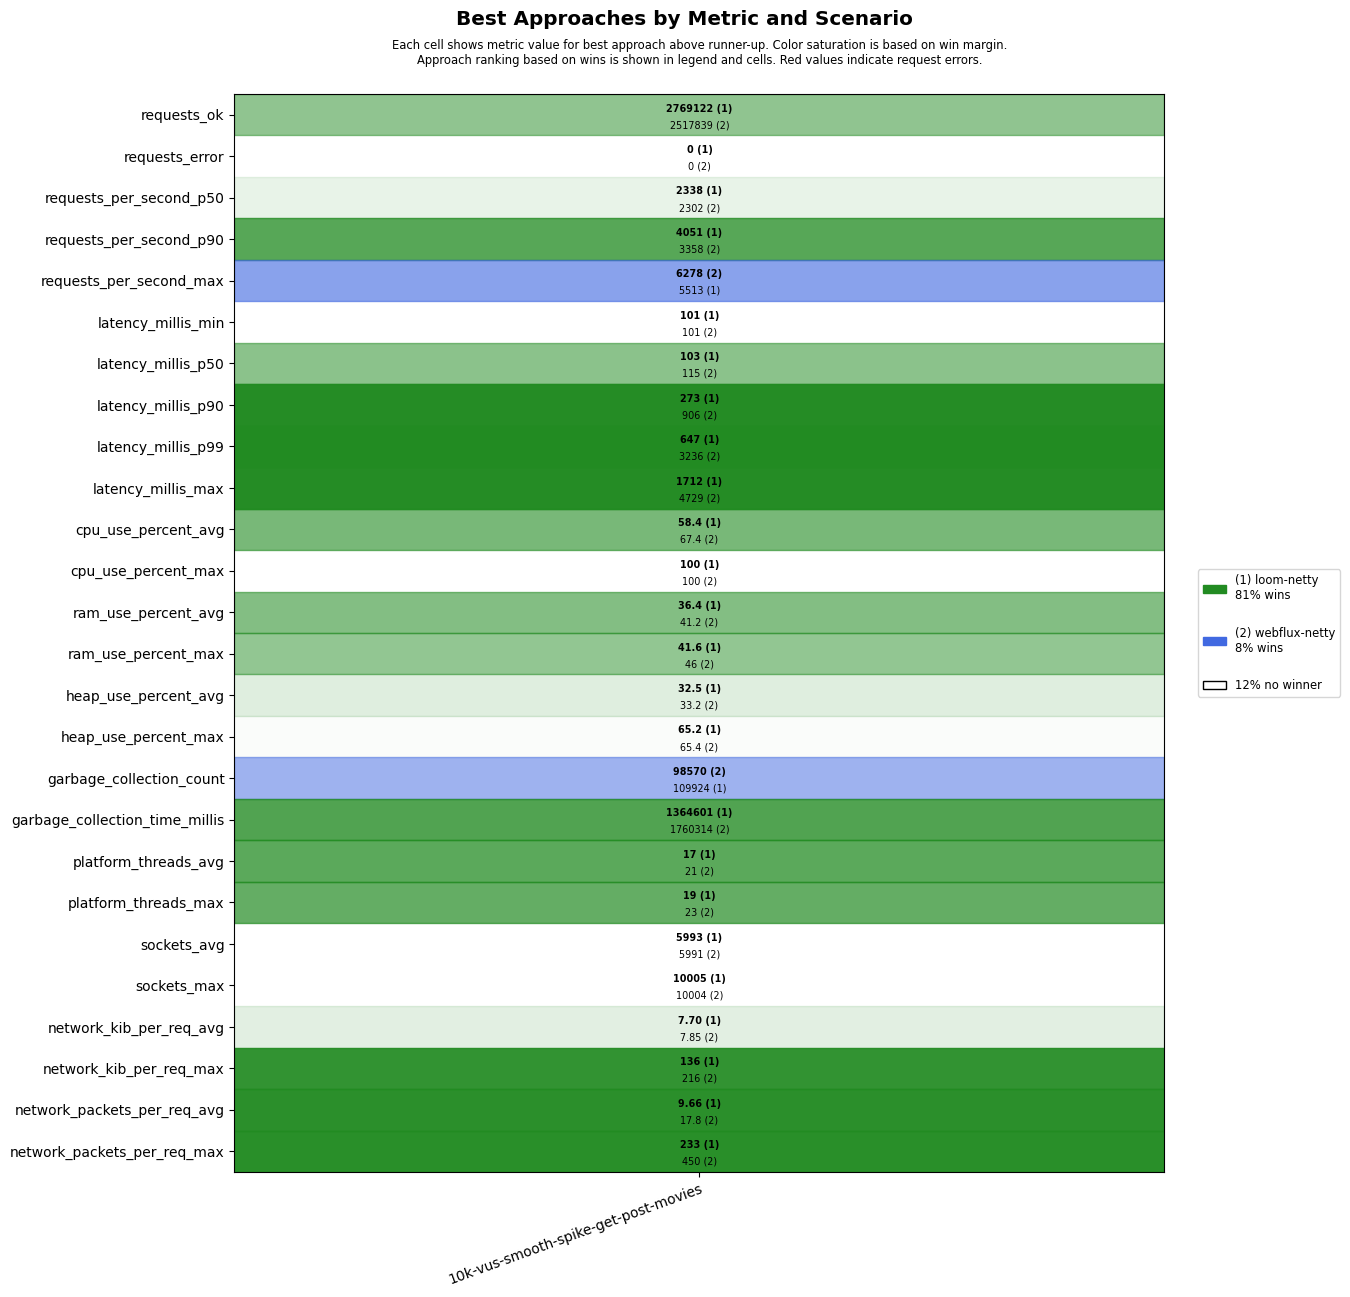
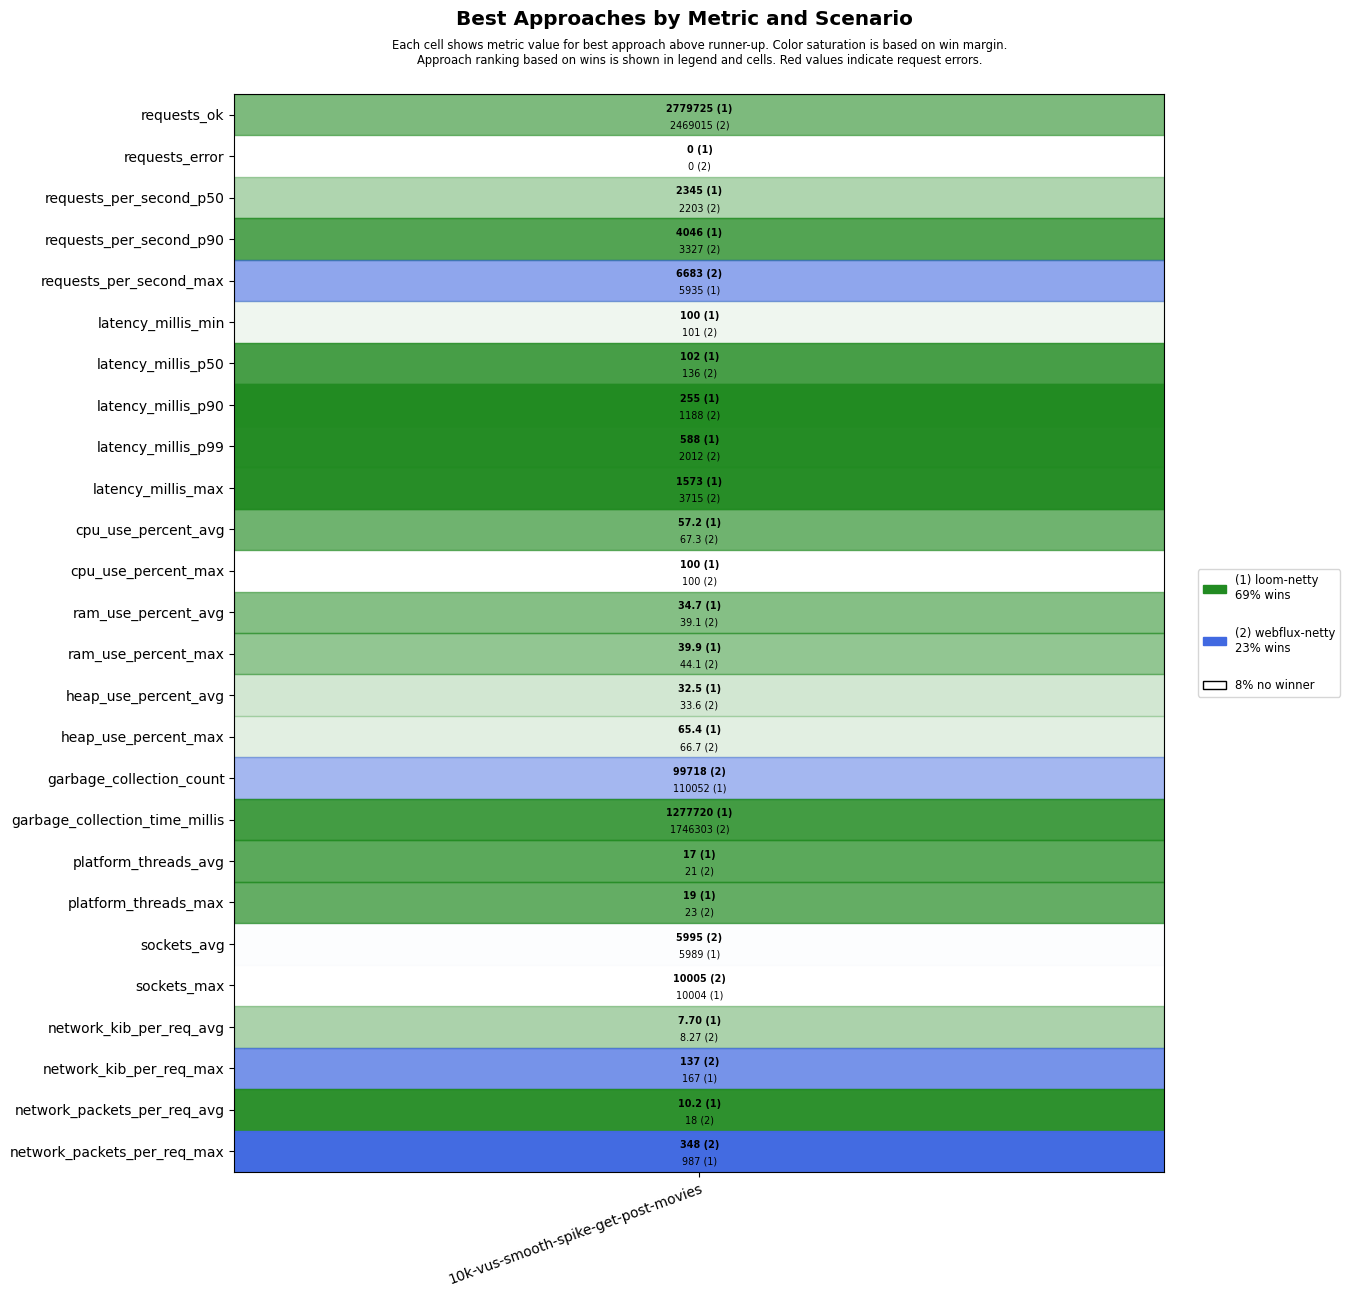
Apply automatic changes

diff --git a/results/ci/scenarios-soaktest/Ubuntu-22.04/java-22/results.md b/results/ci/scenarios-soaktest/Ubuntu-22.04/java-22/results.md
@@ -1,0 +1,54 @@
+# scenarios-soaktest
+
+## Test Time
+
+| **Name**                | **Value** |
+|-------------------------|-----------|
+| **Start (UTC)** | 2024-09-02 05:21:11 |
+| **End (UTC)** | 2024-09-02 06:03:02 |
+| **Duration (hh:mm:ss)** | 00:41:51 |
+
+## System Specs
+
+| **Name**                | **Value** |
+|-------------------------|-----------|
+| **Java** | OpenJDK 64-Bit Server VM Corretto-22.0.2.9.1 (build 22.0.2+9-FR, mixed mode, sharing) |
+| **Python** | 3.10.12 |
+| **OS** | Ubuntu 22.04.4 LTS |
+| **Kernel** | 6.5.0-1025-azure |
+| **CPU** | AMD EPYC 7763 64-Core Processor |
+| **CPU Cores** | 4 |
+| **RAM** | 15Gi total, 13Gi available |
+| **Disk** | 159G total, 98G available |
+
+## Scenarios
+
+**Scenario file:** src/main/resources/scenarios/scenarios-soaktest.csv
+
+| Scenario | k6 Config | Server Profiles | Delay Call Depth | Delay (ms) | Connections | Requests per Second | Warmup Duration (s) | Test Duration (s) |
+|----------|-----------|-----------------|------------------|------------|-------------|---------------------|---------------------|------------------|
+| [10k-vus-smooth-spike-get-post-movies](#10k-vus-smooth-spike-get-post-movies) | get-post-movies-smooth-vus-spike.js |  | 0 | 100 | 10000 |  | 0 | 1200 |
+
+## Result Overview
+
+### Overall
+
+![Overall Results](./results.png)
+### Netty-based
+
+![Netty Results](./results-netty.png)
+
+## Result Details
+
+
+### 10k-vus-smooth-spike-get-post-movies
+
+#### loom-netty
+
+![loom-netty](./10k-vus-smooth-spike-get-post-movies/loom-netty.png)
+
+#### webflux-netty
+
+![webflux-netty](./10k-vus-smooth-spike-get-post-movies/webflux-netty.png)
+
+
